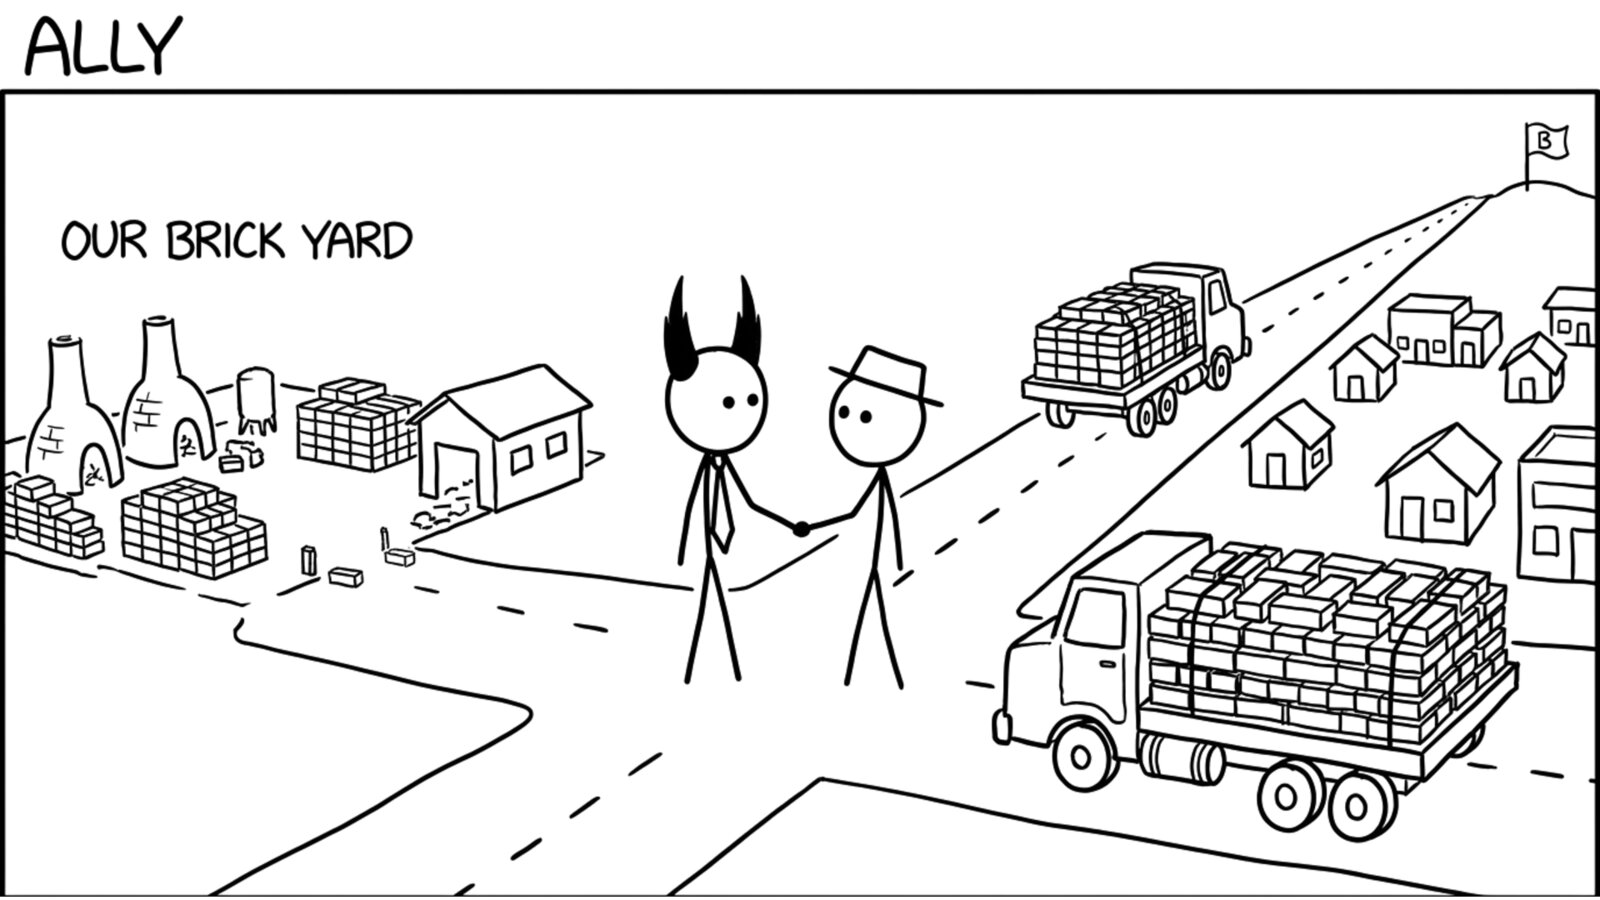
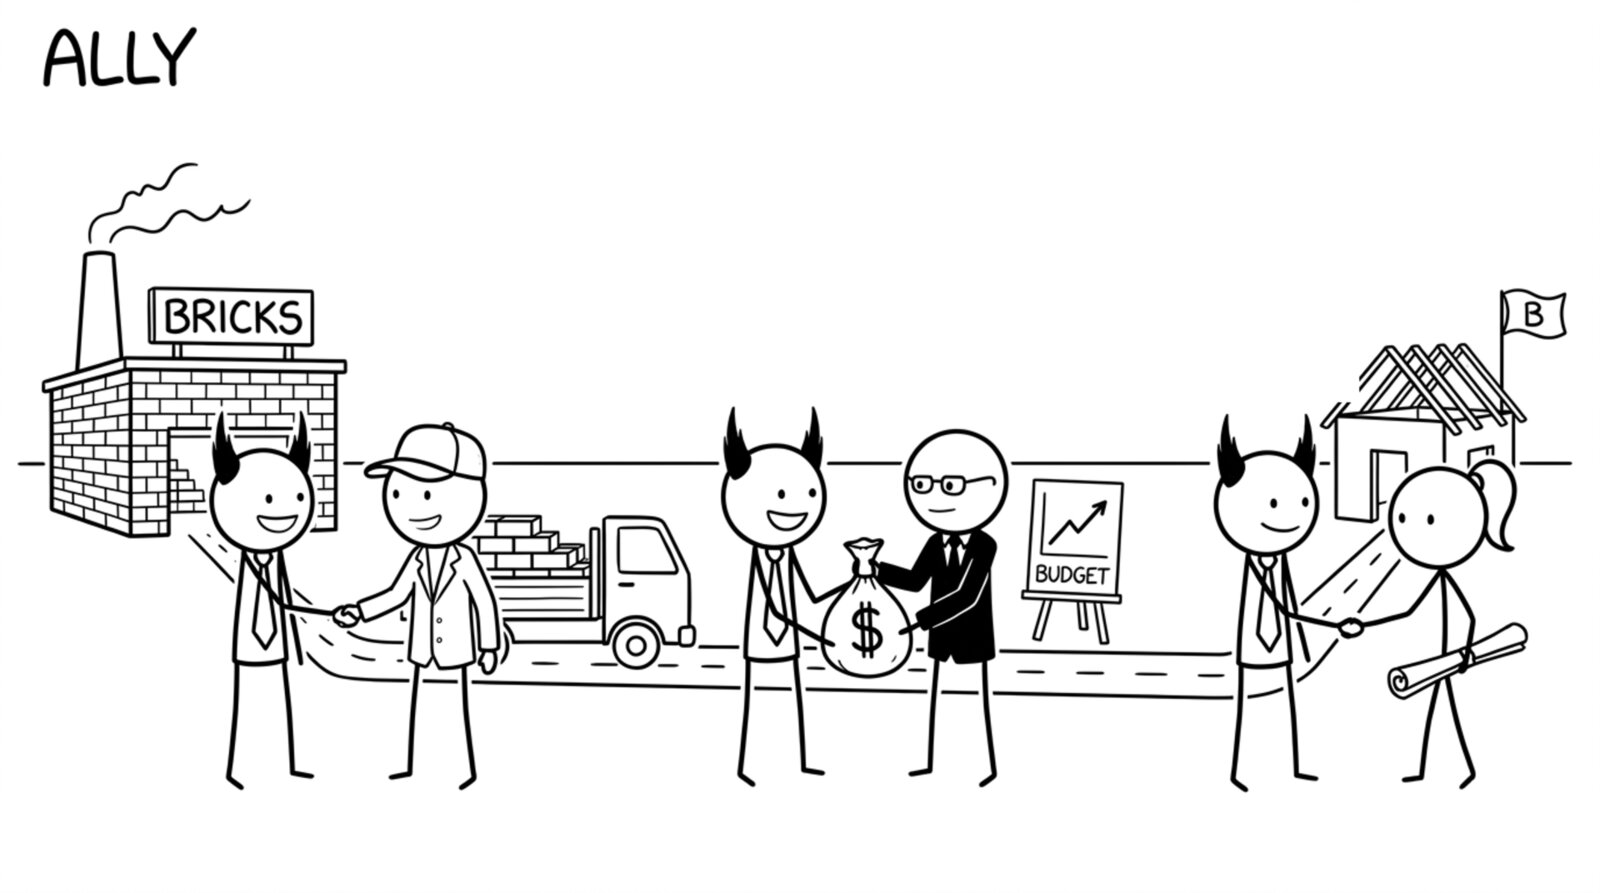
Winning vs capacity talk: Ally with other functions (Sales, Finance, Product)

diff --git a/recipes/management/winning_vs_capacity/source/slides/cap-ally.html b/recipes/management/winning_vs_capacity/source/slides/cap-ally.html
@@ -1,5 +1,5 @@
 <section id="cap-ally" data-transition="fade" style="display:flex; align-items:center; justify-content:center; padding:0; background:#fcfcfa">
-<img src="../images/cap-ally.png" alt="Ally. At a crossroads between our brick yard and a neighboring town, the Manager shakes hands with the town's leader, who wears a hat. The neighbor's truck, loaded with our bricks, drives along their highway toward flag B." style="width:1920px; height:1080px; object-fit:contain; mix-blend-mode:multiply">
+<img src="../images/cap-ally-final2.png" alt="Ally. Side view of one road from the brick factory to the customer site at flag B. The Manager appears three times, shaking hands each time: at the factory with Sales, in a trucker cap, next to a truck loaded with bricks; in the middle with the CFO in a suit, who hands him a money bag marked $ beside a BUDGET chart; and at the customer site with Product, who holds a rolled-up plan." style="width:1920px; height:1080px; object-fit:contain; mix-blend-mode:multiply">
 <p style="position:absolute;left:0;bottom:10px;width:1920px;margin:0;text-align:center;font-family:'Patrick Hand', 'Trebuchet MS', sans-serif;font-size:22px;color:#8a8f98">Copyright Dobromir Montauk 2026</p>
-<aside><b>Ally.</b> Other people's capacity can become yours.<br>- The platform team that adds the one API you need, if they know about it a quarter ahead.<br>- The head of Product as a partner, not a requester: you plan the roadmap together.<br>- HR and your recruiter, who can move faster on your hires if they trust you.<br>- Your boss: make their job easier, and they'll spend their capital on your team.<br>- Vendors and open source: don't build what you can buy.<br>Alliances are built before you need them, not during the crisis.</aside>
+<aside><b>Ally.</b> Other functions' capacity can become yours. Engineering can't win alone, and the partners who trust you will spend their capacity on your goals.<br>- Product: a partner, not a requester. You plan the roadmap together, they cut scope with you instead of around you, and they bring you to the customer.<br>- Sales: they tell you which deals need what, months before the contract is signed, and they don't sell the feature you haven't built. In return, you give them dates you actually hit.<br>- Finance: the CFO who understands your plan funds it. Show what each dollar buys, stay on budget, and share bad news early.<br>- Also: the platform team that adds the API you need if they hear about it a quarter ahead, and the recruiter who moves faster on your hires.<br>Alliances are built before you need them, not during the crisis.</aside>
 </section>

diff --git a/recipes/management/winning_vs_capacity/README.md b/recipes/management/winning_vs_capacity/README.md
@@ -242,14 +242,13 @@ Copyright Dobromir Montauk 2026.
 > Then make it explicit: a few words people can act on, like "Rigorously Get Shit Done". Reward what you say you value; if you say quality but celebrate only speed, the team copies speed. Hire and fire by it.
 > It's slow to build and fast to lose.
 
-![Slide 33: Ally. At a crossroads between our brick yard and a neighboring town, the Manager shakes hands with the town's leader, who wears a hat. The neighbor's truck, loaded with our bricks, drives along their highway toward flag B.](slides/33.jpg)
+![Slide 33: Ally. Side view of one road from the brick factory to the customer site at flag B. The Manager appears three times, shaking hands each time: at the factory with Sales, in a trucker cap, next to a truck loaded with bricks; in the middle with the CFO in a suit, who hands him a money bag marked $ beside a BUDGET chart; and at the customer site with Product, who holds a rolled-up plan.](slides/33.jpg)
 
-> Other people's capacity can become yours.
-> - The platform team that adds the one API you need, if they know about it a quarter ahead.
-> - The head of Product as a partner, not a requester: you plan the roadmap together.
-> - HR and your recruiter, who can move faster on your hires if they trust you.
-> - Your boss: make their job easier, and they'll spend their capital on your team.
-> - Vendors and open source: don't build what you can buy.
+> Other functions' capacity can become yours. Engineering can't win alone, and the partners who trust you will spend their capacity on your goals.
+> - Product: a partner, not a requester. You plan the roadmap together, they cut scope with you instead of around you, and they bring you to the customer.
+> - Sales: they tell you which deals need what, months before the contract is signed, and they don't sell the feature you haven't built. In return, you give them dates you actually hit.
+> - Finance: the CFO who understands your plan funds it. Show what each dollar buys, stay on budget, and share bad news early.
+> - Also: the platform team that adds the API you need if they hear about it a quarter ahead, and the recruiter who moves faster on your hires.
 > Alliances are built before you need them, not during the crisis.
 
 ![Slide 34: Fund. In an office, the Manager presents a rising bar chart on an easel to the big boss behind a desk; the boss, smoking a cigar, hands over truck keys and a money bag. Through the window, a new truck waits next to a pile of bricks.](slides/34.jpg)

diff --git a/recipes/management/winning_vs_capacity/outline.md b/recipes/management/winning_vs_capacity/outline.md
@@ -358,14 +358,13 @@ Running analogy: move a ton of bricks from Point A to Point B. Build the team, a
 ### Ally
 
 33. **Ally** · Comic
-    - Comic: At a crossroads between our brick yard and a neighboring town, the Manager shakes hands with the town's leader, who wears a hat. The neighbor's truck, loaded with our bricks, drives along their highway toward flag B.
+    - Comic: Side view of one road from the brick factory to the customer site at flag B. The Manager appears three times, shaking hands each time: at the factory with Sales (trucker cap) next to a truck loaded with bricks; in the middle with the CFO in a suit, who hands him a money bag marked $ beside a BUDGET chart; at the customer site with Product, who holds a rolled-up plan.
     - Text: "ALLY"
-    - Notes (talk track): Other people's capacity can become yours.
-      - The platform team that adds the one API you need, if they know about it a quarter ahead.
-      - The head of Product as a partner, not a requester: you plan the roadmap together.
-      - HR and your recruiter, who can move faster on your hires if they trust you.
-      - Your boss: make their job easier, and they'll spend their capital on your team.
-      - Vendors and open source: don't build what you can buy.
+    - Notes (talk track): Other functions' capacity can become yours. Engineering can't win alone, and the partners who trust you will spend their capacity on your goals.
+      - Product: a partner, not a requester. You plan the roadmap together, they cut scope with you instead of around you, and they bring you to the customer.
+      - Sales: they tell you which deals need what, months before the contract is signed, and they don't sell the feature you haven't built. In return, you give them dates you actually hit.
+      - Finance: the CFO who understands your plan funds it. Show what each dollar buys, stay on budget, and share bad news early.
+      - Also: the platform team that adds the API you need if they hear about it a quarter ahead, and the recruiter who moves faster on your hires.
       - Alliances are built before you need them, not during the crisis.
 
 ### Fund
